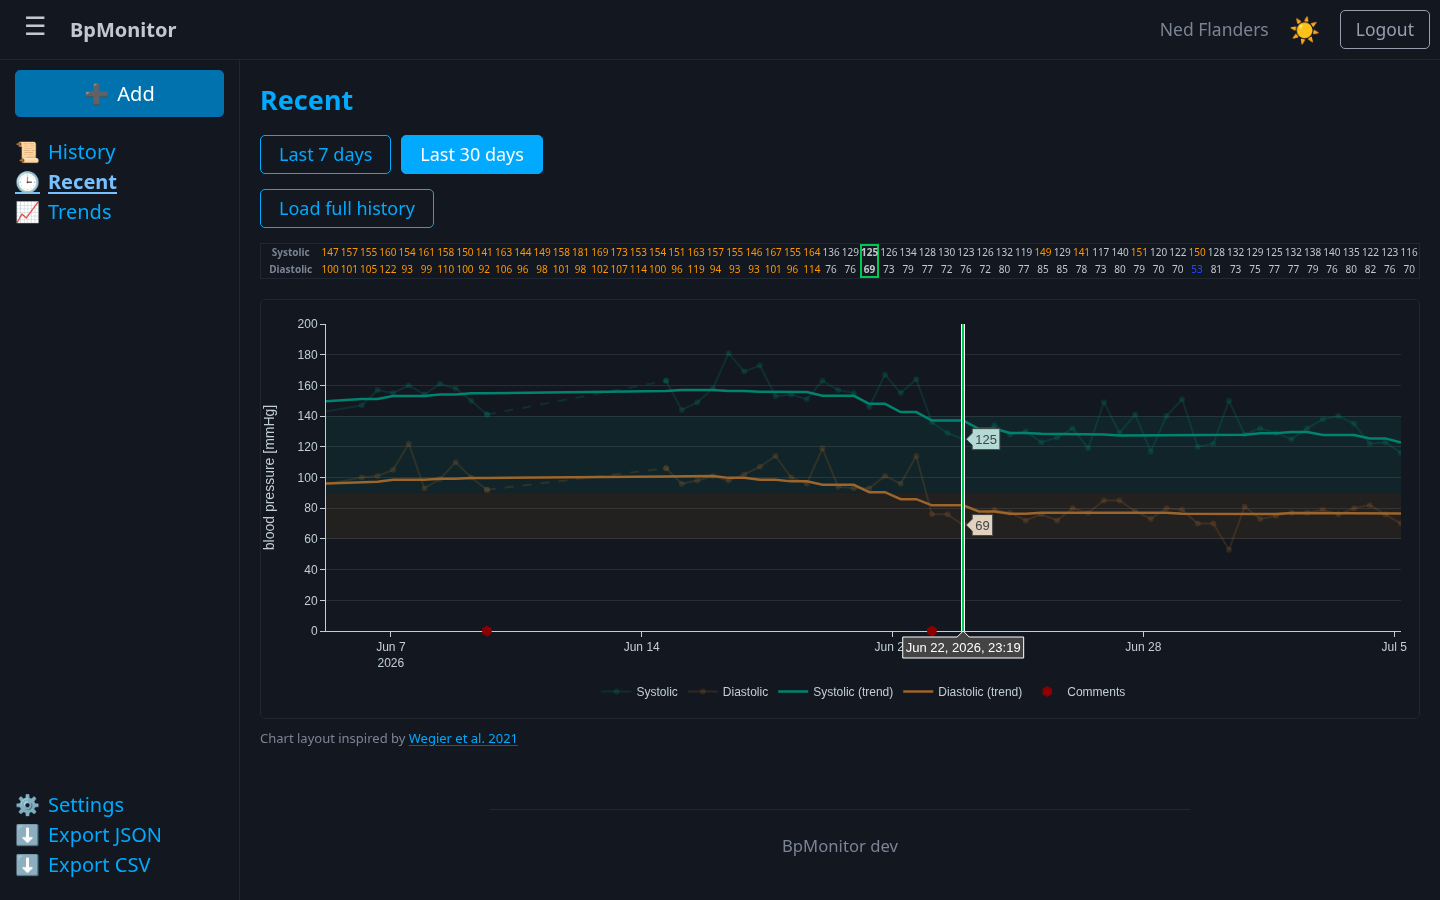
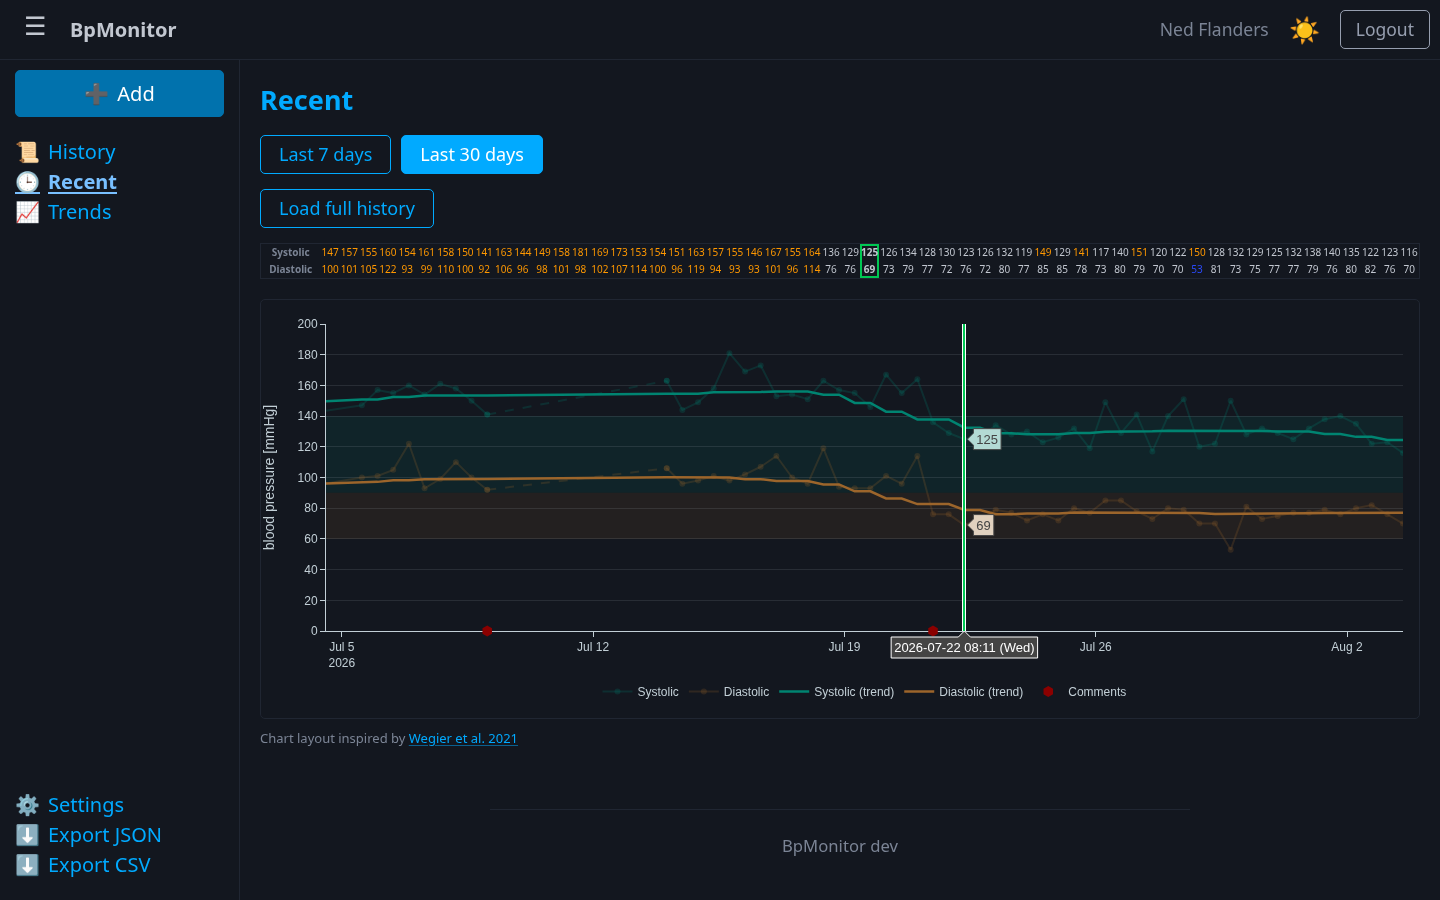
📝 docs: update changelog for v1.10.0

diff --git a/CHANGELOG.md b/CHANGELOG.md
@@ -7,6 +7,8 @@ and this project adheres to [Semantic Versioning](https://semver.org/spec/v2.0.0
 
 ## [Unreleased]
 
+## [1.10.0] - 2026-08-03
+
 ### Changed
 
 - Recent chart's hover box now shows the day name alongside the date and time (e.g. `2026-08-03 12:45 (Mon)`)
@@ -393,7 +395,8 @@ First stable release of the BpMonitor web app.
 
 - Initial GitHub release workflow and `install.sh` for automated deployment.
 
-[Unreleased]: https://github.com/draptik/BpMonitor/compare/v1.9.0...HEAD
+[Unreleased]: https://github.com/draptik/BpMonitor/compare/v1.10.0...HEAD
+[1.10.0]: https://github.com/draptik/BpMonitor/compare/v1.9.0...v1.10.0
 [1.9.0]: https://github.com/draptik/BpMonitor/compare/v1.8.0...v1.9.0
 [1.8.0]: https://github.com/draptik/BpMonitor/compare/v1.7.8...v1.8.0
 [1.7.8]: https://github.com/draptik/BpMonitor/compare/v1.7.7...v1.7.8
